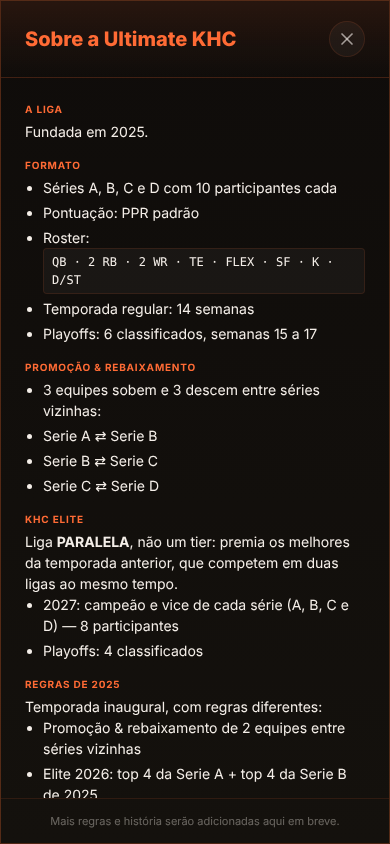
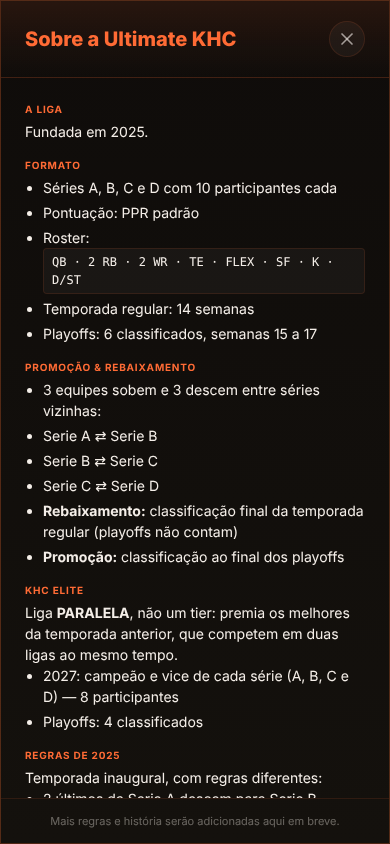
feat(conteudo): critérios de promoção/rebaixamento e regras de 2025 originais
- Rebaixamento pela classificação final da temporada regular (sem
  playoffs); promoção pela classificação ao final dos playoffs
- Seção 'Regras de 2025' volta ao texto que já estava no site

Claude-Session: https://claude.ai/code/session_01Bfcibmf1UqX98e5nufTurY

Changed region(s): [[0.0615, 0.5853, 0.9231, 0.955]]

diff --git a/js/ui/modal.js b/js/ui/modal.js
@@ -80,6 +80,8 @@
                         <li>Serie A ⇄ Serie B</li>
                         <li>Serie B ⇄ Serie C</li>
                         <li>Serie C ⇄ Serie D</li>
+                        <li><strong>Rebaixamento:</strong> classificação final da temporada regular (playoffs não contam)</li>
+                        <li><strong>Promoção:</strong> classificação ao final dos playoffs</li>
                     </ul>
                 </dd>
 
@@ -97,8 +99,12 @@
                 <dd>
                     Temporada inaugural, com regras diferentes:
                     <ul>
-                        <li>Promoção &amp; rebaixamento de 2 equipes entre séries vizinhas</li>
-                        <li>Elite 2026: top 4 da Serie A + top 4 da Serie B de 2025</li>
+                        <li>2 últimos da Serie A descem para Serie B</li>
+                        <li>2 primeiros da Serie B sobem para Serie A</li>
+                        <li>2 últimos da Serie B descem para Serie C</li>
+                        <li>2 primeiros da Serie C sobem para Serie B</li>
+                        <li>KHC Elite: top 4 da Serie A + top 4 da Serie B da temporada
+                            anterior se qualificam</li>
                     </ul>
                 </dd>
             </dl>

diff --git a/review/UI-UX-REVIEW.md b/review/UI-UX-REVIEW.md
@@ -109,7 +109,8 @@ Qualquer proposta do Claude Design precisa ser implementável como **HTML/CSS es
 - ~~Regras desatualizadas~~ — ✅ corrigido com as regras confirmadas: séries A–D com 10 participantes, 6 no playoff
   (semanas 15–17, conferido na Sleeper — o texto antigo dizia "2 semanas"), 3 sobem/3 descem; Elite paralela com os
   melhores da temporada anterior (2027: campeão e vice de cada série, 8 participantes; playoff com 4). As regras de
-  2025 (2 sobem/2 descem; Elite 2026 = top 4 da A + top 4 da B) ficaram numa seção "Regras de 2025".
+  2025 foram mantidas como estavam no site, numa seção "Regras de 2025". Critério confirmado: **rebaixamento pela
+  classificação final da temporada regular** (playoffs não contam) e **promoção pela classificação ao final dos playoffs**.
 - Rodapé "Mais regras e história serão adicionadas aqui em breve" passa sensação de inacabado.
 - O conteúdo merece uma página/aba própria ("Regras") em vez de um botão discreto no rodapé.
 
@@ -150,7 +151,8 @@ Qualquer proposta do Claude Design precisa ser implementável como **HTML/CSS es
 - **Quem usa:** os próprios membros, majoritariamente **no celular**, para checar classificação, provocar os amigos e ver histórico/troféus.
 - **Momentos-chave:** (1) durante a temporada — "como está minha liga essa semana?"; (2) fim de temporada — campeões, acesso/rebaixamento; (3) entre temporadas — lendas e histórico.
 - **Formato da temporada (2026+):** 4 séries (A–D) com 10 participantes, 14 semanas regulares, playoffs com 6 times nas
-  semanas 15–17, 3 sobem / 3 descem entre séries vizinhas, pontuação PPR, roster `QB · 2 RB · 2 WR · TE · FLEX · SF · K · D/ST`.
+  semanas 15–17, 3 sobem / 3 descem entre séries vizinhas (rebaixamento pela temporada regular; promoção pelo
+  resultado dos playoffs), pontuação PPR, roster `QB · 2 RB · 2 WR · TE · FLEX · SF · K · D/ST`.
   **Elite:** paralela, melhores da temporada anterior (2027: campeão e vice de cada série = 8), playoff com 4.
   **2025 (inaugural):** só Serie A (10) e B (12), 2 sobem / 2 descem.
 - **Tom:** competitivo, "resenha", orgulho de clube. Referências possíveis: apps de futebol (Sofascore, OneFootball), ESPN Fantasy.
@@ -329,7 +331,7 @@ Career = { user, currentSeries, trophies:{gold,silver,bronze,fourth}, totalSeaso
 
 1. **Header compacto + navegação fixa**: header pequeno (logo 32–40px + nome) e abas como barra fixa no topo (desktop) / **bottom nav** no mobile. Seletor de temporada como chip/segmented control junto ao título.
 2. **"Minha liga" primeiro**: deixar o usuário escolher sua série/jogador (localStorage) e abrir nela; ou abas internas por série em vez de 5 cards empilhados.
-3. **Zonas na classificação**: faixa lateral colorida para playoffs (top 6), promoção (3) e rebaixamento (últimos 3), com legenda. Cabeçalho de colunas (V–D, PF, PA). Atenção: em 2025 eram 2 sobem / 2 descem — as zonas precisam ser por temporada.
+3. **Zonas na classificação**: faixa lateral colorida para playoffs (top 6), promoção (3) e rebaixamento (últimos 3), com legenda. Cabeçalho de colunas (V–D, PF, PA). Atenção: em 2025 eram 2 sobem / 2 descem — as zonas precisam ser por temporada. E os critérios são diferentes: a zona de **rebaixamento** vale pela temporada regular (ordem vitórias → pontos), a de **promoção** pelo resultado dos playoffs — durante a temporada, a "zona de promoção" é uma projeção (top 3 da campanha), e só fica definida depois dos playoffs.
 4. **Status ao vivo**: "Semana 4 de 14 · atualizado há 2 min" + botão atualizar (a semana já é buscada da Sleeper em `appState.nflState`).
 5. **Top Scorers**: avatar + dono + série; toggle "Incluir Elite"; filtro por série; sem cascata longa de animação.
 6. **Power Ranking**: tiers como cabeçalhos horizontais também no desktop, nomes em PT-BR, explicação do cálculo num tooltip/“?”; variação semanal só com histórico real.
@@ -347,7 +349,6 @@ Career = { user, currentSeries, trophies:{gold,silver,bronze,fourth}, totalSeaso
 | ✅ Feito | B1–B10 (medalhas, troca de temporada, Serie D no drawer, setas falsas, semana fixa, tier mobile, stats do drawer, séries atuais em temporada arquivada, escape de nomes, scroll lock) |
 | ✅ Feito | Classificação de temporadas finalizadas ordenada pelo resultado final dos playoffs |
 | ✅ Feito | Subtítulo por temporada + modal "Sobre" com as regras atuais e as de 2025 |
-| A confirmar | Critério de quem sobe/desce: classificação final (com playoffs) ou temporada regular? |
 | Redesign (Claude Design) | Header/navegação mobile · zonas na classificação · Top Scorers · Power Ranking · Lendas · tokens/escala/contraste |
 | Depois | URL por aba/perfil · dados ao vivo (semana, matchups, bracket) · limpeza do CSS morto |
 
